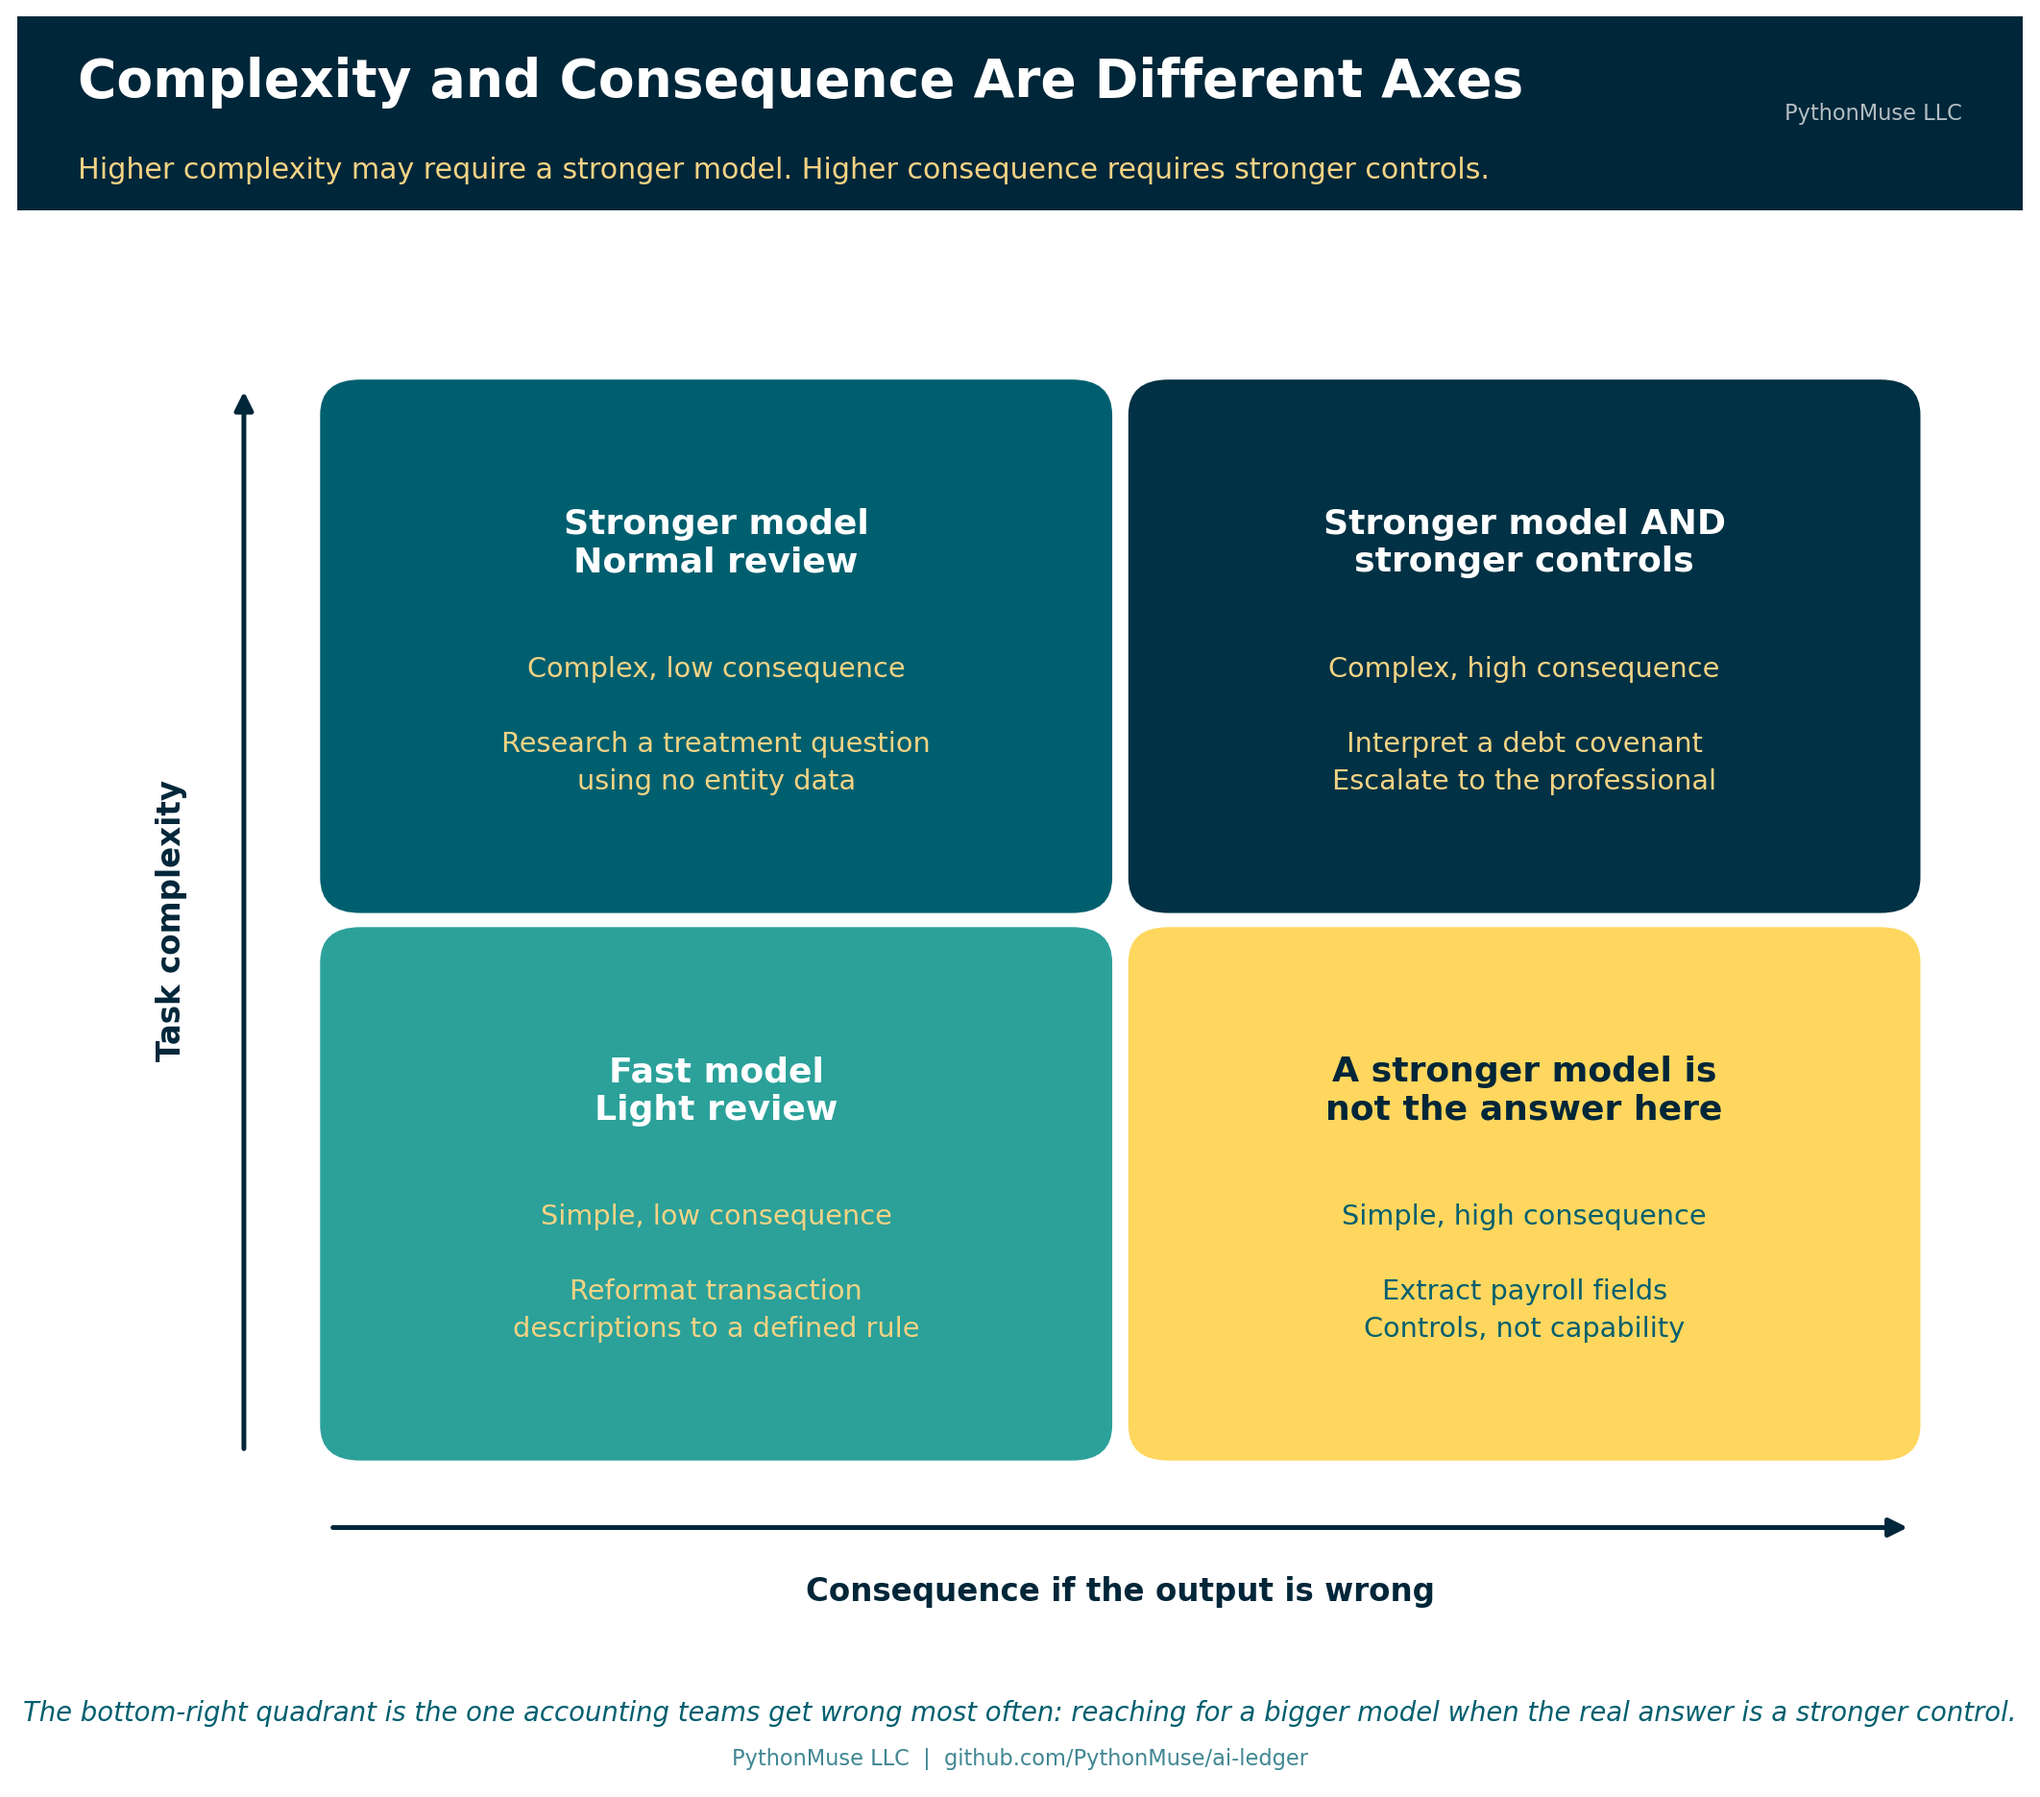
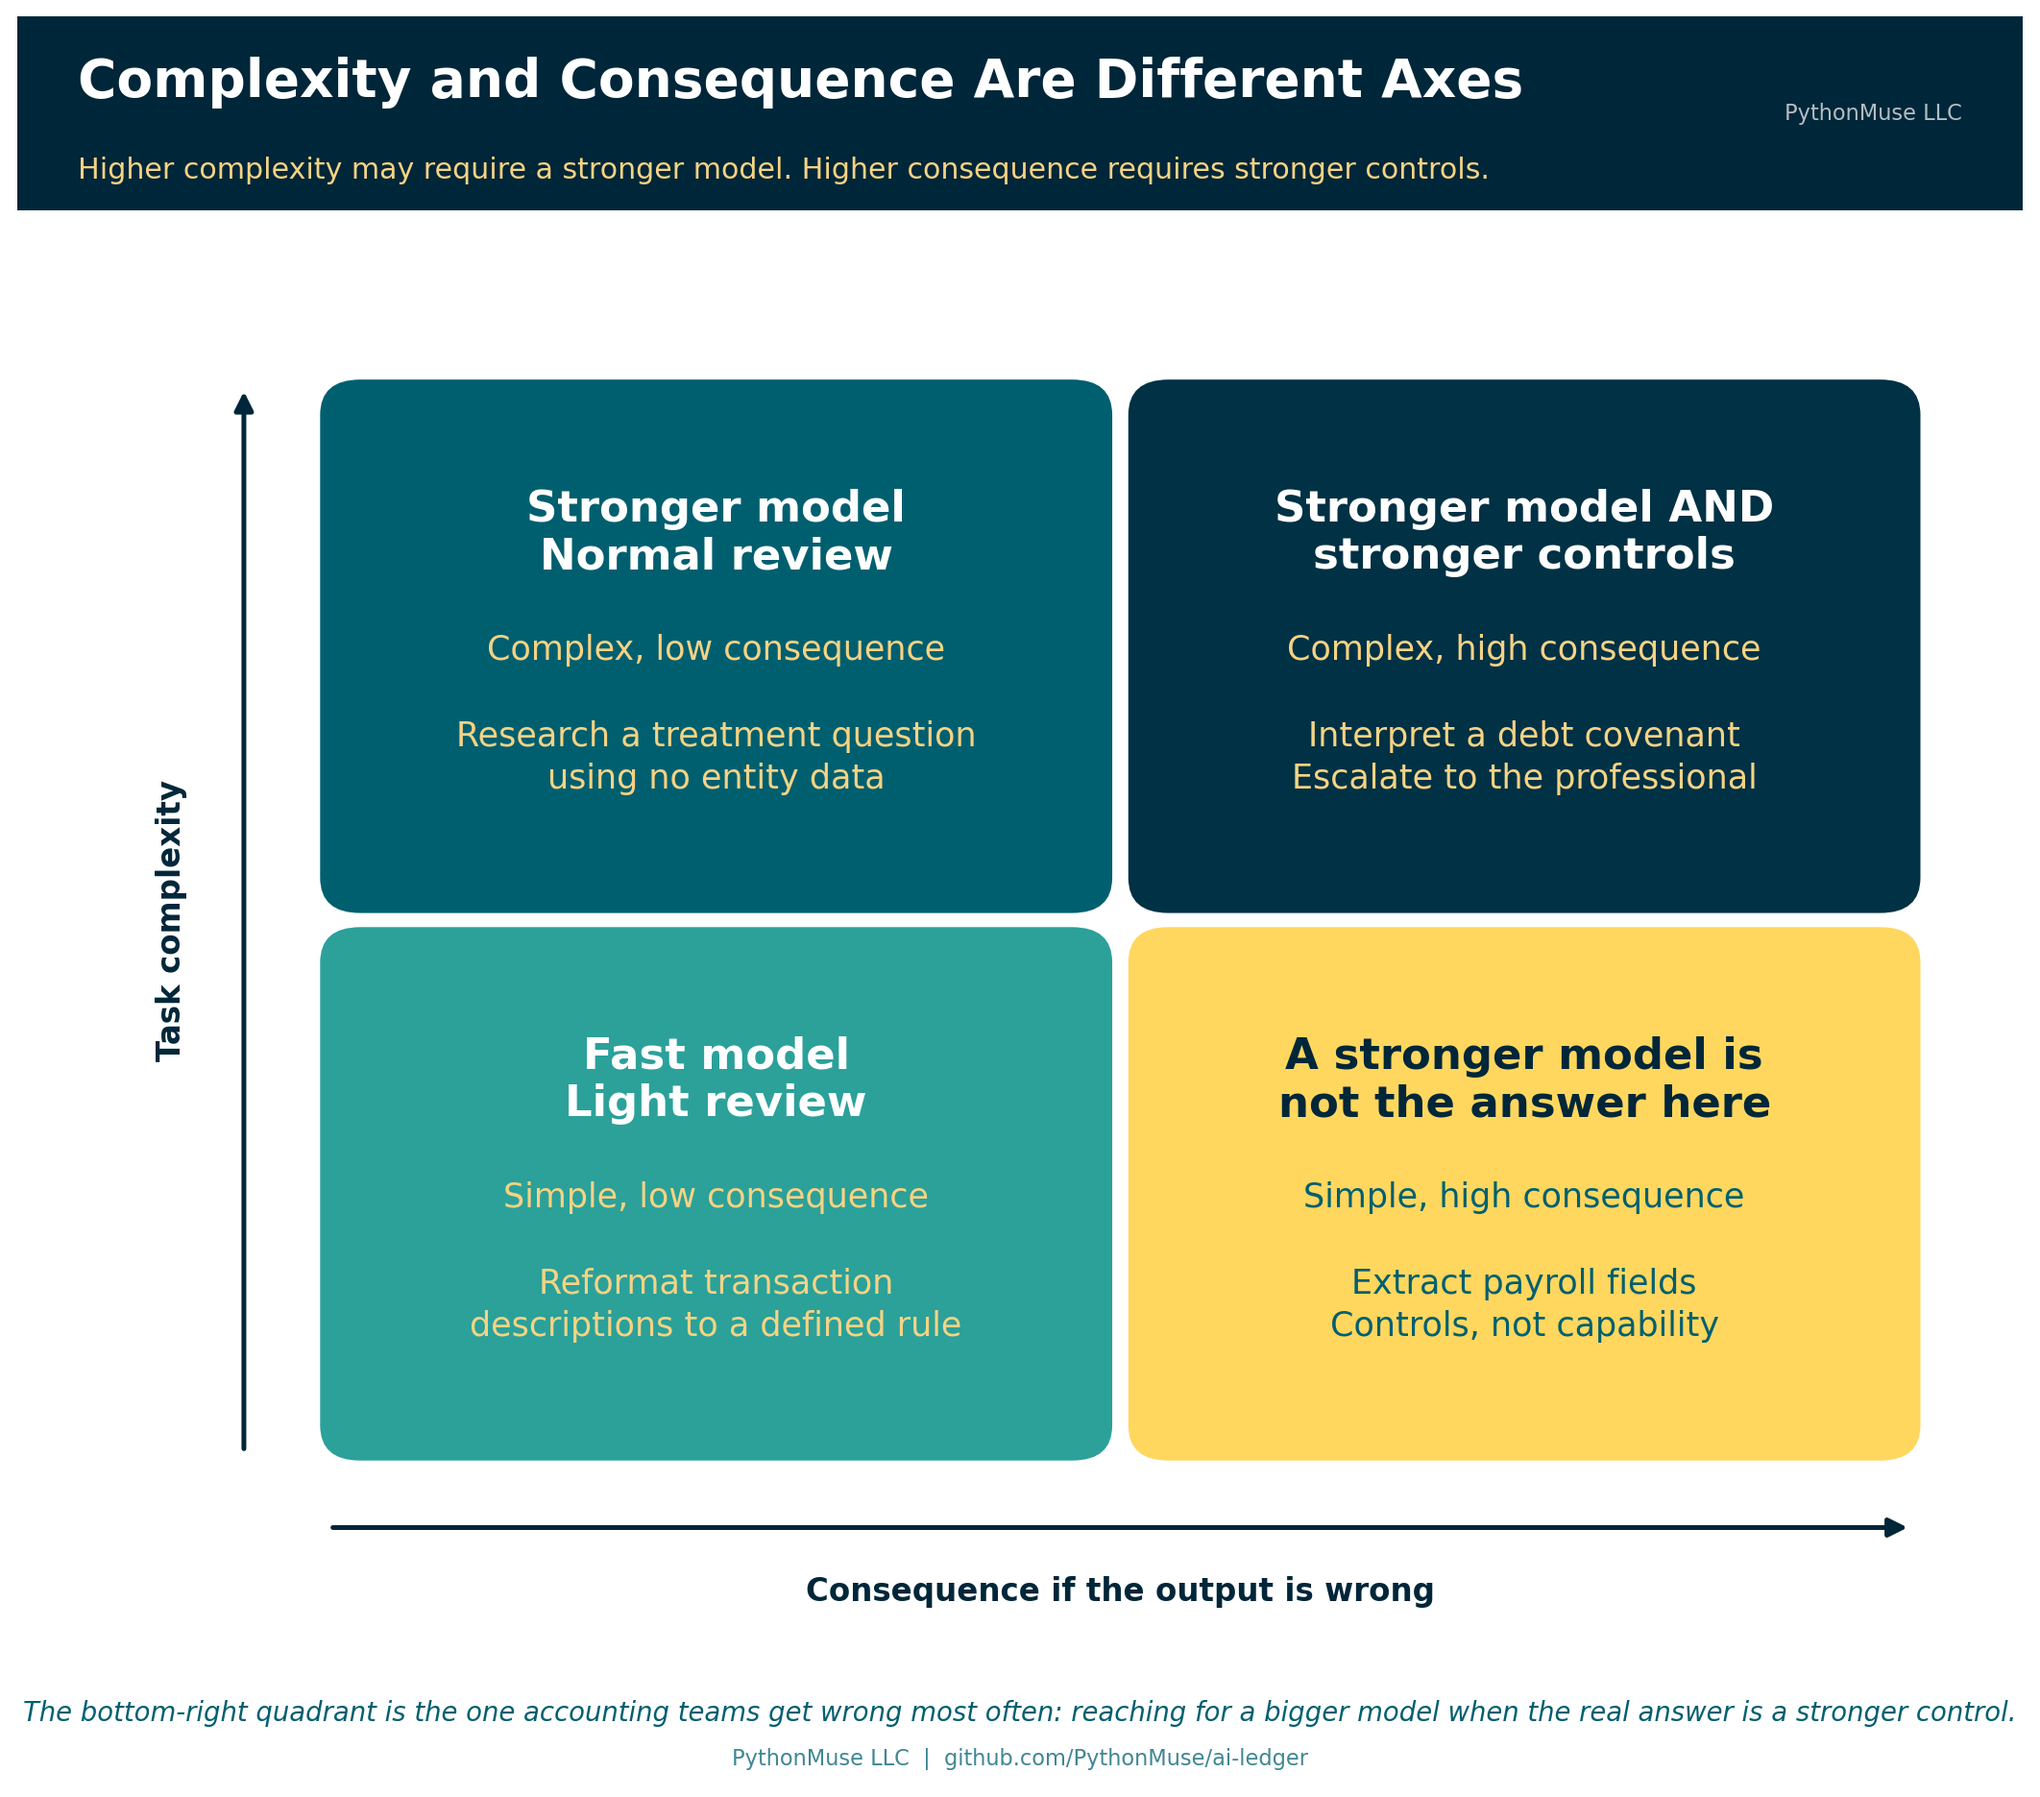
Enlarge quadrant text in the complexity/consequence visual (Article 36)
Bumps headline and body font sizes while re-tuning offsets so text
stays inside each box's boundary.

diff --git a/articles/36-model-selection-is-a-control/generate_visuals.py b/articles/36-model-selection-is-a-control/generate_visuals.py
@@ -224,9 +224,9 @@ def make_complexity_consequence():
         y = pad_b + row * (cell_h + gap)
         text_color, sub_color = text_colors(color)
         rounded_box(ax, (x, y), cell_w, cell_h, color, text_color=text_color,
-                    text=headline, fontsize=14.5,
-                    sub=detail, subsize=11.5, sub_color=sub_color,
-                    title_offset=0.20, sub_offset=0.15, linespacing=1.5)
+                    text=headline, fontsize=18,
+                    sub=detail, subsize=14, sub_color=sub_color,
+                    title_offset=0.22, sub_offset=0.13, linespacing=1.4)
 
     # Axis labels.
     ax.annotate("", xy=(pad_l + grid_w, pad_b - 0.042),
